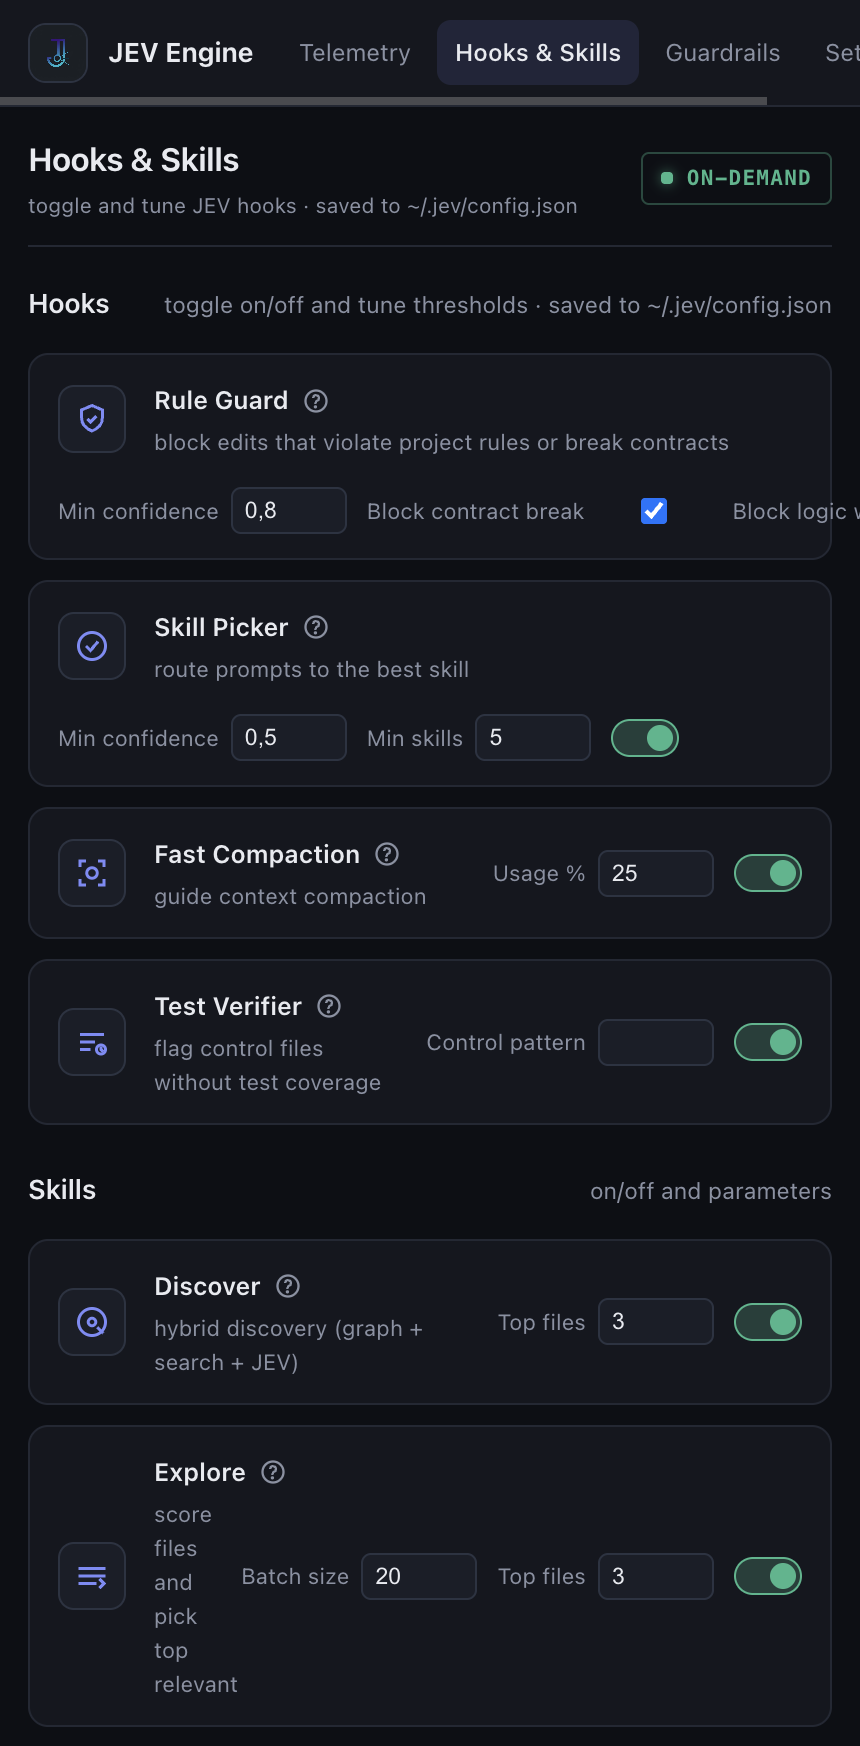
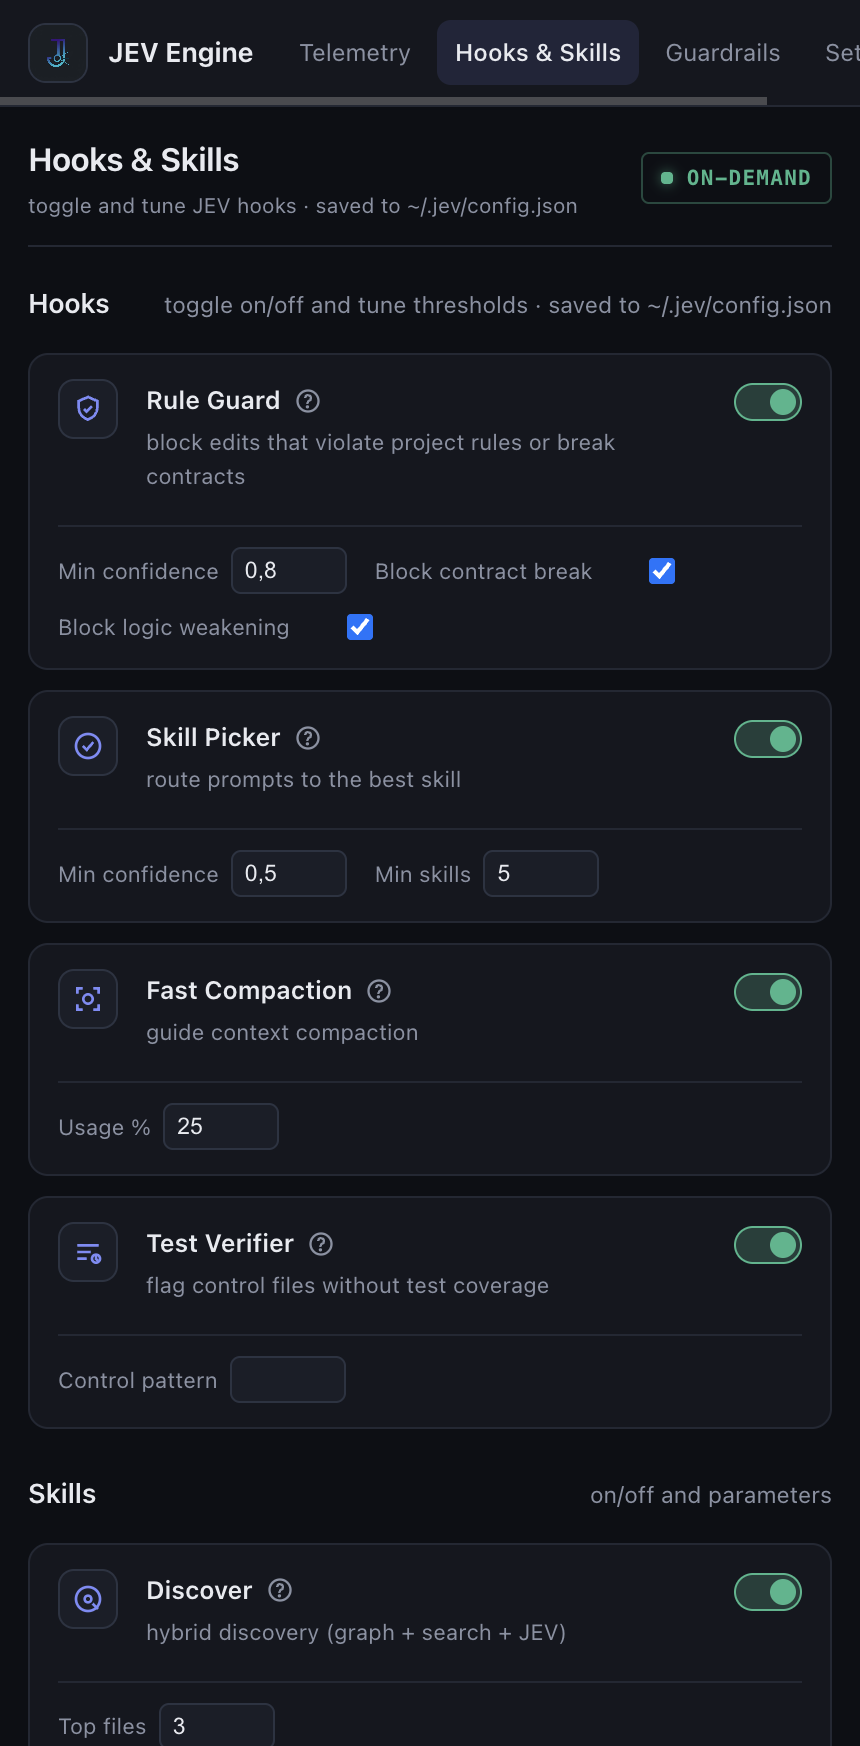
fix(dashboard): mobile Hooks & Skills layout
Config items now stack: icon+title row with toggle anchored top-right,
parameter fields on their own full-width row below (bordered). Controls
no longer overflow the 430px viewport. Updated mobile screenshot.

diff --git a/src/dashboard.js b/src/dashboard.js
@@ -391,8 +391,15 @@ export function createDashboardHtml(initialData, projectDir) {
       .kpis { grid-template-columns: repeat(2, 1fr); gap: 10px; }
       .charts-row { grid-template-columns: 1fr; }
       .section-title { font-size: 13.5px; }
-      .cfg-item { flex-wrap: wrap; padding: 12px 14px; }
-      .cfg-controls { justify-content: flex-start; gap: 10px; }
+      .cfg-item { flex-wrap: wrap; padding: 12px 14px; align-items: flex-start; position: relative; }
+      .cfg-item .cfg-icon { width: 30px; height: 30px; }
+      .cfg-item .cfg-icon svg { width: 16px; height: 16px; }
+      .cfg-meta { flex-basis: calc(100% - 48px); padding-right: 44px; }
+      .cfg-controls {
+        flex-basis: 100%; justify-content: flex-start; gap: 8px 14px;
+        padding-top: 10px; border-top: 1px solid var(--border); margin-top: 2px;
+      }
+      .cfg-controls .toggle { position: absolute; right: 14px; top: 14px; }
       .cfg-info::after { width: 220px; left: auto; right: 0; }
       .stream { max-height: 260px; }
       .stream-item { padding: 8px 12px; font-size: 11px; flex-wrap: wrap; gap: 6px; }
